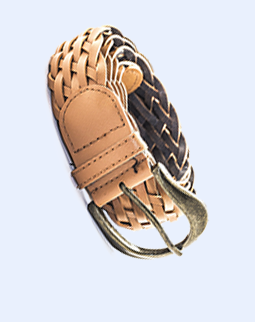
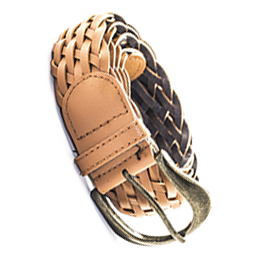
переделала дз модуля 4

Changed region(s): [[0.1647, 0.0303, 0.851, 0.9394]]

diff --git a/html-css/module-04/index.html b/html-css/module-04/index.html
@@ -1,154 +1,137 @@
 <!DOCTYPE html>
 <html lang="en">
-  <head>
-    <meta charset="UTF-8" />
-    <meta name="viewport" content="width=device-width, initial-scale=1.0" />
-    <meta http-equiv="X-UA-Compatible" content="ie=edge" />
-    <title>MART</title>
-    <link rel="stylesheet" href="./normalize" />
-    <link
-      href="https://fonts.googleapis.com/css?family=Open+Sans:300,400,600,700|Roboto:300,400,500,700,900"
-      rel="stylesheet"
-    />
-    <link rel="stylesheet" href="./main.css/style.css" />
-  </head>
 
-  <body>
-    <div class="wrapper">
-      <header class="page-header">
-        <nav class="navigation">
-          <a href="#" class="site-logo"> <h1 class="logo">Mart</h1> </a>
-          <ul class="site-navigation">
-            <li class="menu-item"><a href="#">Home</a></li>
-            <li class="menu-item"><a href="#">About Us</a></li>
-            <li class="menu-item"><a href="#">Page</a></li>
-            <li class="menu-item"><a href="#">Shop</a></li>
-            <li class="menu-item"><a href="#">Blog</a></li>
-            <li class="menu-item"><a href="#">Contact Us</a></li>
-          </ul>
-        </nav>
-      </header>
-      <main>
-        <section class="products clearfix">
-          <h2 class="products-title">Featured Products</h2>
-          <div class="products-list">
-            <img src="./img/shoes.png" alt="shoes" class="item" />
-            <div class="name-price">
-              <p class="name-product">Blue Tshirt</p>
-              <p class="price">&#36;26</p>
-            </div>
+<head>
+  <meta charset="UTF-8" />
+  <meta name="viewport" content="width=device-width, initial-scale=1.0" />
+  <meta http-equiv="X-UA-Compatible" content="ie=edge" />
+  <title>MART</title>
+  <link rel="stylesheet" href="./normalize" />
+  <link href="https://fonts.googleapis.com/css?family=Open+Sans:300,400,600,700|Roboto:300,400,500,700,900" rel="stylesheet" />
+  <link rel="stylesheet" href="./main.css/style.css" />
+</head>
+
+<body>
+  <div class="wrapper">
+    <header class="page-header">
+      <a href="#" class="site-logo">
+        <h1 class="logo">Mart</h1>
+      </a>
+      <nav class="navigation">
+        <ul class="site-navigation">
+          <li class="menu-item"><a href="#">Home</a></li>
+          <li class="menu-item"><a href="#">About Us</a></li>
+          <li class="menu-item"><a href="#">Page</a></li>
+          <li class="menu-item"><a href="#">Shop</a></li>
+          <li class="menu-item"><a href="#">Blog</a></li>
+          <li class="menu-item"><a href="#">Contact Us</a></li>
+        </ul>
+      </nav>
+    </header>
+    <main>
+      <section class="products clearfix">
+        <h2 class="products-title">Featured Products</h2>
+        <div class="products-list">
+          <img src="./img/shoes.png" alt="shoes" class="item" width="255" height="264" />
+          <div class="name-price">
+            <h3 class="name-product">Blue Tshirt</h3>
+            <p class="price">&#36;26</p>
           </div>
-          <div class="products-list">
-            <img src="./img/belt.png" alt="belt" class="item" />
-            <div class="name-price">
-              <p class="name-product">Woman Shirt</p>
-              <p class="price">&#36;31</p>
-            </div>
+        </div>
+        <div class="products-list">
+          <img src="./img/belt.png" alt="belt" class="item" width="255" height="264" />
+          <div class="name-price">
+            <h3 class="name-product">Woman Shirt</h3>
+            <p class="price">&#36;31</p>
           </div>
-          <div class="products-list">
-            <img src="./img/hat.png" alt="hat" class="item" />
-            <div class="name-price">
-              <p class="name-product">Yellow Tshirt</p>
-              <p class="price">&#36;21</p>
-            </div>
+        </div>
+        <div class="products-list">
+          <img src="./img/hat.png" alt="hat" class="item" width="255" height="264" />
+          <div class="name-price">
+            <h3 class="name-product">Yellow Tshirt</h3>
+            <p class="price">&#36;21</p>
           </div>
-          <div class="products-list">
-            <img src="./img/purse.png" alt="purse" class="item" />
-            <div class="name-price">
-              <p class="name-product">Cool lingerie</p>
-              <p class="price">&#36;56</p>
-            </div>
+        </div>
+        <div class="products-list">
+          <img src="./img/purse.png" alt="purse" class="item" width="255" height="264" />
+          <div class="name-price">
+            <h3 class="name-product">Cool lingerie</h3>
+            <p class="price">&#36;56</p>
           </div>
-          <div class="products-list">
-            <img src="./img/purse2.png" alt="purse" class="item" />
-            <div class="name-price">
-              <p class="name-product">Blue Tshirt</p>
-              <p class="price">&#36;26</p>
-            </div>
+        </div>
+        <div class="products-list">
+          <img src="./img/purse2.png" alt="purse" class="item" width="255" height="264" />
+          <div class="name-price">
+            <h3 class="name-product">Blue Tshirt</h3>
+            <p class="price">&#36;26</p>
           </div>
-          <div class="products-list">
-            <img src="./img/belt2.png" alt="belt" class="item" />
-            <div class="name-price">
-              <p class="name-product">Woman Shirt</p>
-              <p class="price">&#36;31</p>
-            </div>
+        </div>
+        <div class="products-list">
+          <img src="./img/belt2.png" alt="belt" class="item" width="255" height="264" />
+          <div class="name-price">
+            <h3 class="name-product">Woman Shirt</h3>
+            <p class="price">&#36;31</p>
           </div>
-          <div class="products-list">
-            <img src="./img/manshoes.png" alt="manshoes" class="item" />
-            <div class="name-price">
-              <p class="name-product">Yellow Tshirt</p>
-              <p class="price">&#36;21</p>
-            </div>
+        </div>
+        <div class="products-list">
+          <img src="./img/manshoes.png" alt="manshoes" class="item" width="255" height="264" />
+          <div class="name-price">
+            <h3 class="name-product">Yellow Tshirt</h3>
+            <p class="price">&#36;21</p>
           </div>
-          <div class="products-list">
-            <img src="./img/glasess.png" alt="glasess" class="item" />
-            <div class="name-price">
-              <p class="name-product">Cool lingerie</p>
-              <p class="price">&#36;56</p>
-            </div>
+        </div>
+        <div class="products-list">
+          <img src="./img/glasess.png" alt="glasess" class="item" width="255" height="264" />
+          <div class="name-price">
+            <h3 class="name-product">Cool lingerie</h3>
+            <p class="price">&#36;56</p>
           </div>
-          <div class="i"></div>
-        </section>
-        <section class="news">
-          <h2 class="news-title">Latest News</h2>
-          <ul class="news-list">
-            <li class="news-list-item">
-              <img
-                src="./img/ipad.jpg"
-                alt="ipad"
-                width="347"
-                height="262"
-                class="news-img"
-              />
-              <p class="first">
-                Lorem Ipsum. Proin gravida nibh vel velit auctor aliquet. Aenean
-              </p>
-              <p class="second">
-                Nam nec tellus a odio tincidunt auc. Duis sed odio sit amet nibh
-                vulputate cursus a sit amet mauris. Morbi accumsan ipsum velit.
-                Nam nec tellus a odio tincidunt
-              </p>
-              <a href="#" class="button-link">Read More</a>
-            </li>
-            <li class="news-list-item">
-              <img
-                src="./img/girls.jpg"
-                alt="girls"
-                width="347"
-                height="262"
-                class="news-img"
-              />
-              <p class="first">
-                Lorem Ipsum. Proin gravida nibh vel velit auctor aliquet. Aenean
-              </p>
-              <p class="second">
-                Nam nec tellus a odio tincidunt auc. Duis sed odio sit amet nibh
-                vulputate cursus a sit amet mauris. Morbi accumsan ipsum velit.
-                Nam nec tellus a odio tincidunt
-              </p>
-              <a href="#" class="button-link">Read More</a>
-            </li>
-            <li class="news-list-item">
-              <img
-                src="./img/bus.jpg"
-                alt="bus"
-                width="347"
-                height="262"
-                class="news-img"
-              />
-              <p class="first">
-                Lorem Ipsum. Proin gravida nibh vel velit auctor aliquet. Aenean
-              </p>
-              <p class="second">
-                Nam nec tellus a odio tincidunt auc. Duis sed odio sit amet nibh
-                vulputate cursus a sit amet mauris. Morbi accumsan ipsum velit.
-                Nam nec tellus a odio tincidunt
-              </p>
-              <a href="#" class="button-link">Read More</a>
-            </li>
-          </ul>
-        </section>
-      </main>
-    </div>
-  </body>
+        </div>
+        <div class="i"></div>
+      </section>
+      <section class="news">
+        <h2 class="news-title">Latest News</h2>
+        <ul class="news-list">
+          <li class="news-list-item">
+            <img src="./img/ipad.jpg" alt="ipad" width="347" height="262" class="news-img" />
+            <p class="first">
+              Lorem Ipsum. Proin gravida nibh vel velit auctor aliquet. Aenean
+            </p>
+            <p class="second">
+              Nam nec tellus a odio tincidunt auc. Duis sed odio sit amet nibh
+              vulputate cursus a sit amet mauris. Morbi accumsan ipsum velit.
+              Nam nec tellus a odio tincidunt
+            </p>
+            <a href="#" class="button-link">Read More</a>
+          </li>
+          <li class="news-list-item">
+            <img src="./img/girls.jpg" alt="girls" width="347" height="262" class="news-img" />
+            <p class="first">
+              Lorem Ipsum. Proin gravida nibh vel velit auctor aliquet. Aenean
+            </p>
+            <p class="second">
+              Nam nec tellus a odio tincidunt auc. Duis sed odio sit amet nibh
+              vulputate cursus a sit amet mauris. Morbi accumsan ipsum velit.
+              Nam nec tellus a odio tincidunt
+            </p>
+            <a href="#" class="button-link">Read More</a>
+          </li>
+          <li class="news-list-item">
+            <img src="./img/bus.jpg" alt="bus" width="347" height="262" class="news-img" />
+            <p class="first">
+              Lorem Ipsum. Proin gravida nibh vel velit auctor aliquet. Aenean
+            </p>
+            <p class="second">
+              Nam nec tellus a odio tincidunt auc. Duis sed odio sit amet nibh
+              vulputate cursus a sit amet mauris. Morbi accumsan ipsum velit.
+              Nam nec tellus a odio tincidunt
+            </p>
+            <a href="#" class="button-link">Read More</a>
+          </li>
+        </ul>
+      </section>
+    </main>
+  </div>
+</body>
+
 </html>

diff --git a/html-css/module-04/main.css/style.css b/html-css/module-04/main.css/style.css
@@ -27,6 +27,7 @@ body {
   width: 1110px;
   margin: 0 auto;
 }
+
 .site-logo {
   text-decoration: none;
 }
@@ -67,7 +68,7 @@ body {
 }
 
 .menu-item {
-  float: right;
+  float: left;
   height: auto;
   overflow: hidden;
 }
@@ -77,9 +78,8 @@ body {
   padding: 0;
   font-size: 14px;
   float: right;
-  line-height: 11px;
+  line-height: 14px;
   list-style-type: none;
-  width: 490px;
 }
 
 .site-navigation a:hover {
@@ -103,7 +103,8 @@ body {
   margin: 0 0 34px 0;
   text-align: center;
   font-size: 48px;
-  line-height: 32px;
+  line-height: 48px;
+  text-transform: uppercase;
 }
 
 .products-title::after,
@@ -116,19 +117,22 @@ body {
   margin: 34px auto 92px;
 }
 
-.i {
-  clear: both;
-}
 
 .products-list {
   float: left;
   width: 255px;
+  height: 322px;
   margin: 0 auto;
   background: #e9f0fd;
 }
 
+
+.i {
+  clear: both;
+}
+
 .name-price {
-  width: 254px;
+  width: 255px;
   height: 40px;
   height: auto;
   overflow: hidden;
@@ -144,7 +148,9 @@ body {
   text-align: center;
   line-height: 40px;
   font-size: 18px;
-  background: rgba(50, 50, 50, 0.4);
+  background: #ffffff;
+  background: rgba(0, 0, 0, .4);
+
 }
 
 .name-product {
@@ -159,7 +165,7 @@ body {
   text-align: center;
   line-height: 40px;
   font-size: 18px;
-  width: 202px;
+  width: 203px;
   height: 40px;
   padding: 0 0 0 14px;
   text-align: left;
@@ -185,11 +191,13 @@ body {
 .item {
   width: 100%;
   height: auto;
+  padding-bottom: 18px;
 }
 
 .news {
   height: auto;
   overflow: hidden;
+  margin-bottom: 80px;
 }
 
 .news-list {
